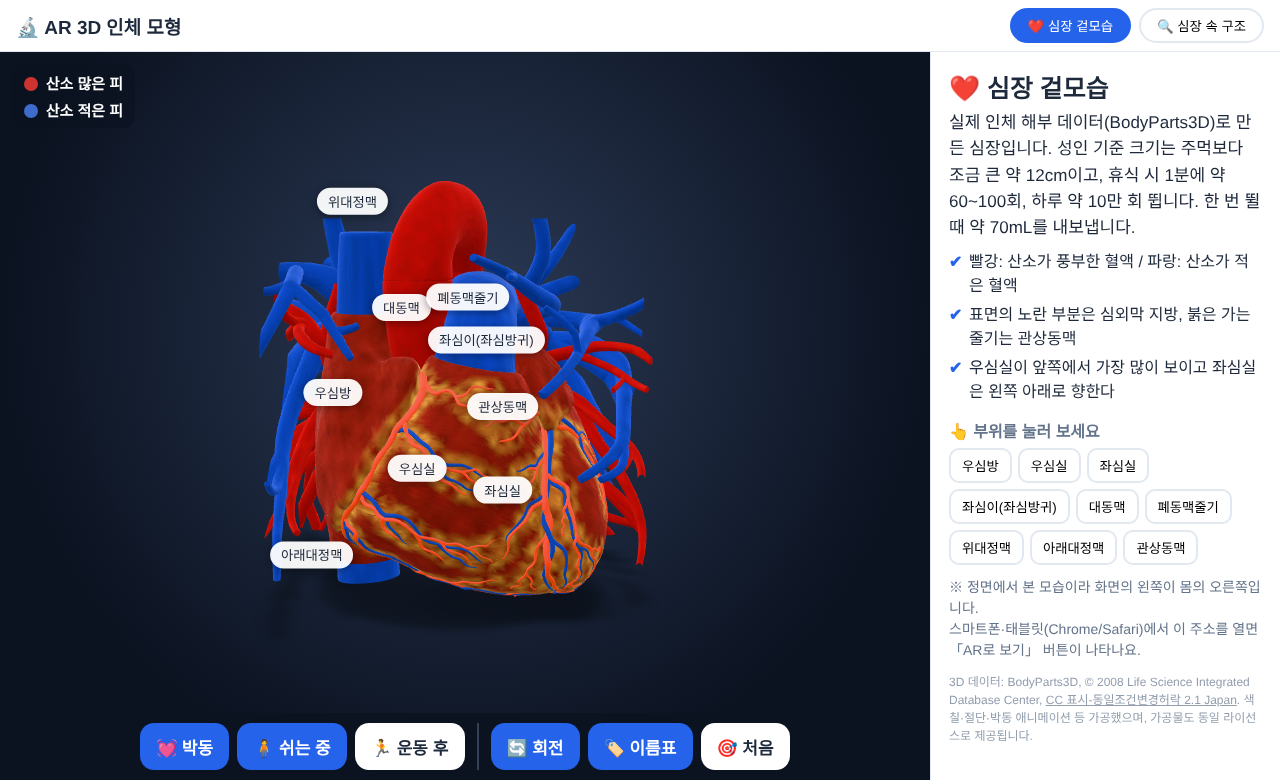
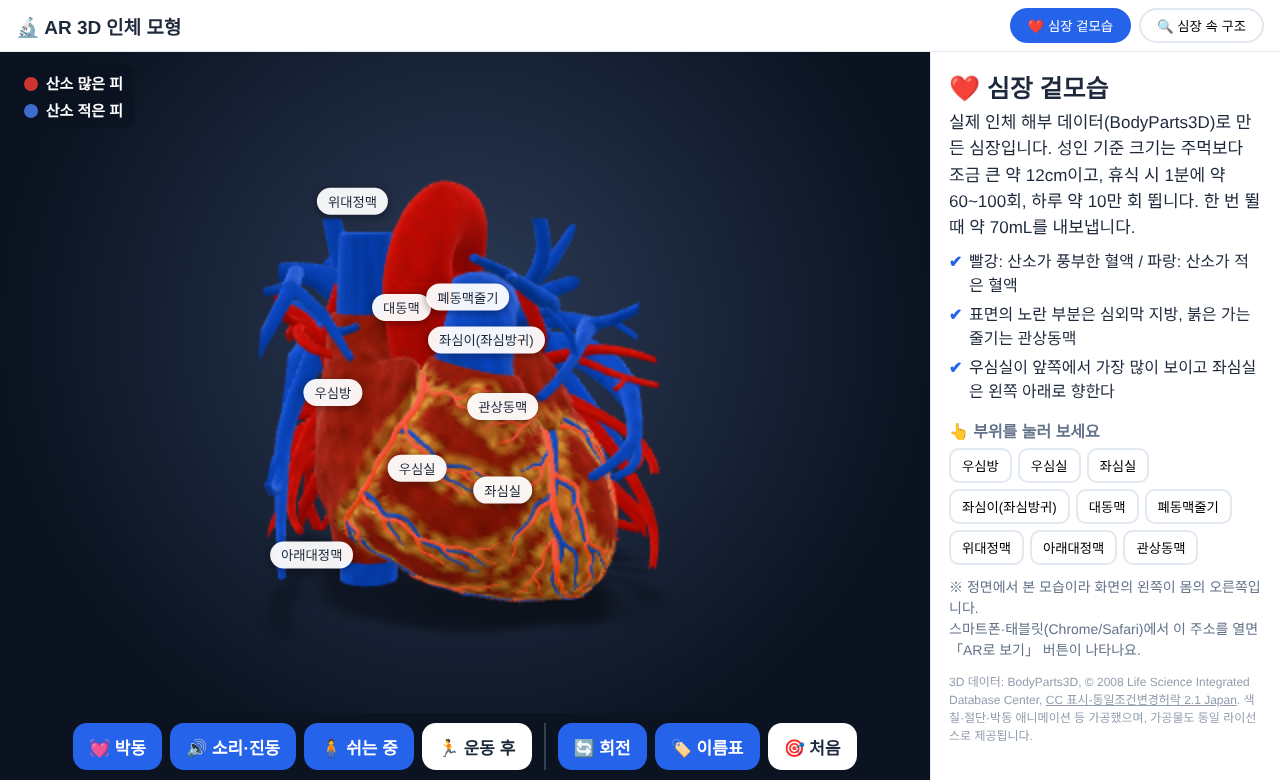
AR 심장: 박동에 맞춘 소리·진동 버튼 추가
Claude-Session: https://claude.ai/code/session_01HghrwLd9isgKxHBA8mJjUH

diff --git a/ar-science/index.html b/ar-science/index.html
@@ -50,6 +50,8 @@
     .btn{padding:9px 12px;font-size:15px}.btn.ar{font-size:16px;padding:9px 14px}
     .legend{font-size:13px;padding:6px 9px}
   }
+  #mv.pulse{filter:brightness(1.12)}
+  #mv{transition:filter .12s}
 </style>
 </head>
 <body>
@@ -68,6 +70,7 @@
     <div class="legend" id="legend"><span><i style="background:#cd3430"></i>산소 많은 피</span><span><i style="background:#3e6ccd"></i>산소 적은 피</span></div>
     <div class="bar">
       <button class="btn" id="beatBtn" aria-pressed="true">💓 박동</button>
+      <button class="btn" id="feelBtn" aria-pressed="false">🔊 소리·진동</button>
       <button class="btn" id="restBtn" aria-pressed="true">🧍 쉬는 중</button>
       <button class="btn" id="runBtn" aria-pressed="false">🏃 운동 후</button>
       <span class="sep" id="sep"></span>
@@ -122,7 +125,7 @@
     mv.src = current.file;
     mv.alt = current.name+' 3D 모형';
     mv.resetTurntableRotation(0); mv.cameraOrbit='0.02deg 82deg auto'; mv.cameraTarget='auto auto auto';
-    ['beatBtn','restBtn','runBtn','sep'].forEach(id=>$(id).style.display = current.animated?'':'none');
+    ['beatBtn','feelBtn','restBtn','runBtn','sep'].forEach(id=>$(id).style.display = current.animated?'':'none');
     if (current.animated){ beating=true; $('beatBtn').setAttribute('aria-pressed',true); setSpeed(1); }
     $('mName').textContent=(current.emoji||'')+' '+current.name;
     $('mIntro').textContent=current.intro||'';
@@ -149,6 +152,31 @@
     const [x,y,z]=h.pos.split(' ').map(Number);
     mv.resetTurntableRotation(0); mv.cameraTarget=`${x}m ${y}m ${z}m`; mv.cameraOrbit='0.01deg 82deg 0.5m';
   }
+
+  // ── 심장박동 느끼기: 쿵(수축 시작)·쿵(판막 닫힘) 소리 + 진동, 애니메이션 위상에 맞춤
+  let feel=false, actx=null, lastPh=0;
+  function thump(freq,dur,gain){
+    if(!actx) return; const t=actx.currentTime, o=actx.createOscillator(), g=actx.createGain();
+    o.type='sine'; o.frequency.setValueAtTime(freq,t); o.frequency.exponentialRampToValueAtTime(freq*0.55,t+dur);
+    g.gain.setValueAtTime(0.0001,t); g.gain.exponentialRampToValueAtTime(gain,t+0.012); g.gain.exponentialRampToValueAtTime(0.0001,t+dur);
+    o.connect(g).connect(actx.destination); o.start(t); o.stop(t+dur+0.02);
+  }
+  function buzz(ms){ try{ navigator.vibrate && navigator.vibrate(ms); }catch(e){} }
+  function lub(){ thump(62,0.16,0.9); buzz(70); $('mv').classList.add('pulse'); setTimeout(()=>$('mv').classList.remove('pulse'),120); }
+  function dub(){ thump(78,0.11,0.55); buzz(40); }
+  (function tick(){
+    if(feel && current && current.animated && beating){
+      const dur=0.8, ph=(mv.currentTime%dur+dur)%dur;
+      if(ph<lastPh-0.4) lub();               // 한 박자 시작
+      else if(lastPh<0.42 && ph>=0.42) dub(); // 수축 끝
+      lastPh=ph;
+    }
+    requestAnimationFrame(tick);
+  })();
+  $('feelBtn').onclick=()=>{
+    feel=!feel; $('feelBtn').setAttribute('aria-pressed',feel);
+    if(feel){ actx=actx||new (window.AudioContext||window.webkitAudioContext)(); actx.resume(); lub(); setTimeout(dub,300); }
+  };
 
   $('beatBtn').onclick=()=>setBeat(!beating);
   $('restBtn').onclick=()=>setSpeed(1);
